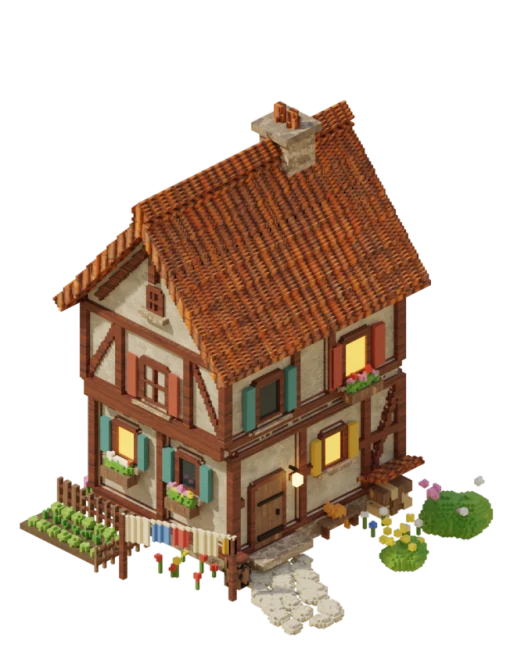
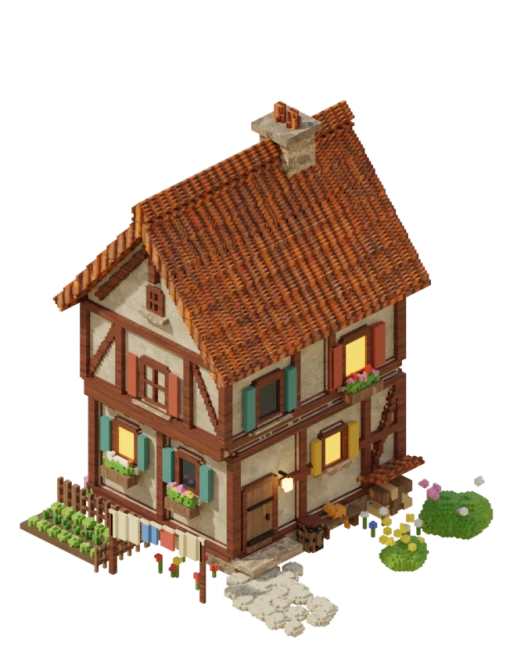
Small House: path runs square onto its entrance cell
The door moves south (y -0.28) and the cobbled path now bends once and runs
straight and perpendicular onto the middle of the entrance cell's outer
edge, so it continues in line into the road tile. The rain butt that would
have stood in it moves between door and bench; the washing line moves to
the side of the entrance (one piece fewer to fit).

Changed region(s): [[0.0309, 0.1497, 0.9594, 0.9581]]

diff --git a/lib/features/settlement/data/building_model.dart b/lib/features/settlement/data/building_model.dart
@@ -124,8 +124,8 @@ bool _modelFits(String id, int w, int h) {
 
 /// The footprint (grid w, h) each model was rendered for.
 const Map<String, (int, int)> kModelFootprint = {
-  'small_house': (2, 2),
   'hatchery': (4, 3),
+  'small_house': (2, 2),
 };
 
 const Map<String, BuildingEntrance> kBuildingEntrance = {
@@ -135,5 +135,5 @@ const Map<String, BuildingEntrance> kBuildingEntrance = {
 
 const Map<String, BuildingAnimSpec> kBuildingAnim = {
   'hatchery': BuildingAnimSpec(1.20837, true, [BuildingAnimLayer(AnimKind.sway, 0, 0, 41, 33, 0.40837, 0.58795, 0.04435, 0.02909, 0.42992, 0.60743, 0.1, 3.1, 2.78), BuildingAnimLayer(AnimKind.sway, 0, 35, 38, 34, 0.83682, 0.77147, 0.04017, 0.03047, 0.85562, 0.79175, 0.1, 3.1, 1.98), BuildingAnimLayer(AnimKind.sway, 0, 71, 35, 28, 0.41925, 0.80679, 0.03766, 0.02493, 0.43795, 0.823, 0.1, 3.1, 2.27), BuildingAnimLayer(AnimKind.sway, 0, 101, 34, 33, 0.68201, 0.8144, 0.03598, 0.02909, 0.70033, 0.83407, 0.1, 3.1, 1.65), BuildingAnimLayer(AnimKind.sway, 0, 136, 45, 38, 0.19833, 0.72922, 0.04854, 0.03324, 0.22376, 0.75776, 0.22, 1.5, 2), BuildingAnimLayer(AnimKind.sway, 0, 176, 23, 35, 0.20084, 0.75208, 0.02427, 0.03116, 0.21038, 0.78546, 0.22, 1.85, 2.04), BuildingAnimLayer(AnimKind.sway, 0, 213, 21, 41, 0.21172, 0.69529, 0.02259, 0.03601, 0.2251, 0.72951, 0.22, 2.2, 2.08), BuildingAnimLayer(AnimKind.sway, 0, 256, 44, 45, 0.06109, 0.71814, 0.04686, 0.04017, 0.08053, 0.74502, 0.12, 3.4, 4.2), BuildingAnimLayer(AnimKind.sway, 0, 303, 49, 47, 0.26276, 0.81856, 0.05272, 0.04155, 0.29739, 0.84362, 0.12, 3.4, 4.7), BuildingAnimLayer(AnimKind.sway, 0, 352, 25, 45, 0.61757, 0.90582, 0.02678, 0.04017, 0.616, 0.93335, 0.12, 3.4, 3.66), BuildingAnimLayer(AnimKind.sway, 0, 399, 48, 49, 0.09874, 0.74723, 0.05105, 0.04294, 0.12738, 0.77548, 0.12, 3.4, 3.48), BuildingAnimLayer(AnimKind.sway, 0, 450, 34, 50, 0.38828, 0.74723, 0.03598, 0.04432, 0.40582, 0.74853, 0.07, 3, 4.46), BuildingAnimLayer(AnimKind.bob, 0, 502, 68, 41, 0.29121, 0.7133, 0.0728, 0.03601, 0.31479, 0.74891, 0.008, 3.6, 0.62), BuildingAnimLayer(AnimKind.bob, 0, 545, 85, 67, 0.27364, 0.72022, 0.09038, 0.05956, 0.31479, 0.74891, 0.008, 4.9, 0.68), BuildingAnimLayer(AnimKind.sway, 0, 614, 87, 73, 0.83682, 0.78532, 0.09289, 0.0644, 0.87436, 0.83531, 0.035, 4.4, 1.67), BuildingAnimLayer(AnimKind.sway, 0, 689, 27, 35, 0.26946, 0.6205, 0.02845, 0.03116, 0.28802, 0.6647, 0.035, 4.4, 6.22), BuildingAnimLayer(AnimKind.sway, 0, 726, 80, 46, 0.33138, 0.67659, 0.08536, 0.04086, 0.39043, 0.70048, 0.1, 2.1, 4.87), BuildingAnimLayer(AnimKind.glow, 0, 774, 497, 340, 0.34142, 0.55263, 0.53138, 0.30055, 0.5, 0.5, 0.45, 6, 4.52), BuildingAnimLayer(AnimKind.flicker, 0, 1116, 74, 49, 0.45439, 0.80402, 0.0795, 0.04363, 0.5, 0.5, 0.7, 1, 4.49), BuildingAnimLayer(AnimKind.glow, 0, 1167, 50, 59, 0.2887, 0.74377, 0.05356, 0.05194, 0.5, 0.5, 0.6, 3.2, 1.2)]),
-  'small_house': BuildingAnimSpec(1.28679, true, [BuildingAnimLayer(AnimKind.sway, 0, 0, 37, 31, 0.1952, 0.66861, 0.07057, 0.04667, 0.22908, 0.69977, 0.1, 3.1, 2.76), BuildingAnimLayer(AnimKind.sway, 0, 33, 35, 34, 0.31381, 0.71412, 0.06757, 0.05018, 0.34919, 0.74644, 0.1, 3.1, 2.06), BuildingAnimLayer(AnimKind.sway, 0, 69, 39, 35, 0.65916, 0.53909, 0.07508, 0.05251, 0.69512, 0.57383, 0.1, 3.1, 6.11), BuildingAnimLayer(AnimKind.sway, 0, 106, 14, 22, 0.65165, 0.76079, 0.02703, 0.03267, 0.65939, 0.76586, 0.35, 1.9, 0.14), BuildingAnimLayer(AnimKind.sway, 0, 130, 70, 47, 0.28979, 0.81564, 0.13514, 0.07001, 0.36601, 0.85624, 0.12, 3.4, 3.68), BuildingAnimLayer(AnimKind.sway, 0, 179, 68, 38, 0.68619, 0.75146, 0.13063, 0.05601, 0.75998, 0.7965, 0.12, 3.4, 3.77), BuildingAnimLayer(AnimKind.sway, 0, 219, 15, 27, 0.15465, 0.70478, 0.02853, 0.04084, 0.19305, 0.7293, 0.12, 3.4, 3.8), BuildingAnimLayer(AnimKind.sway, 0, 248, 81, 70, 0.7973, 0.70595, 0.15465, 0.10385, 0.86568, 0.78904, 0.035, 4.4, 1.55), BuildingAnimLayer(AnimKind.sway, 0, 320, 56, 64, 0.72222, 0.76196, 0.10661, 0.09568, 0.76959, 0.84131, 0.035, 4.4, 0.63), BuildingAnimLayer(AnimKind.sway, 0, 386, 31, 34, 0.23423, 0.76896, 0.06006, 0.05134, 0.26023, 0.77419, 0.16, 2.4, 1.69), BuildingAnimLayer(AnimKind.sway, 0, 422, 25, 27, 0.28529, 0.77713, 0.04805, 0.04084, 0.31054, 0.78219, 0.16, 2.4, 0.5), BuildingAnimLayer(AnimKind.sway, 0, 451, 23, 27, 0.32583, 0.78296, 0.04354, 0.03967, 0.34828, 0.78819, 0.16, 2.4, 2.42), BuildingAnimLayer(AnimKind.sway, 0, 480, 31, 31, 0.36486, 0.7888, 0.06006, 0.04667, 0.39544, 0.79569, 0.16, 2.4, 1.14), BuildingAnimLayer(AnimKind.sway, 0, 513, 14, 23, 0.42042, 0.79813, 0.02703, 0.03384, 0.43946, 0.80268, 0.16, 2.4, 2.46), BuildingAnimLayer(AnimKind.glow, 0, 538, 252, 135, 0.22222, 0.49708, 0.48348, 0.2007, 0.5, 0.5, 0.45, 6, 4.52), BuildingAnimLayer(AnimKind.flicker, 0, 675, 16, 20, 0.55556, 0.70128, 0.03153, 0.03034, 0.5, 0.5, 0.7, 1, 4.49)]),
+  'small_house': BuildingAnimSpec(1.29198, true, [BuildingAnimLayer(AnimKind.sway, 0, 0, 37, 31, 0.19667, 0.67096, 0.0711, 0.04567, 0.2311, 0.7019, 0.1, 3.1, 2.76), BuildingAnimLayer(AnimKind.sway, 0, 33, 35, 33, 0.31619, 0.71663, 0.06808, 0.04918, 0.35209, 0.74872, 0.1, 3.1, 2.06), BuildingAnimLayer(AnimKind.sway, 0, 68, 39, 36, 0.66415, 0.53981, 0.07564, 0.05386, 0.70053, 0.57555, 0.1, 3.1, 6.11), BuildingAnimLayer(AnimKind.sway, 0, 106, 14, 22, 0.65658, 0.76347, 0.02723, 0.03279, 0.66454, 0.7682, 0.35, 1.9, 0.14), BuildingAnimLayer(AnimKind.sway, 0, 130, 70, 44, 0.29198, 0.82319, 0.13616, 0.06557, 0.36903, 0.85887, 0.12, 3.4, 3.68), BuildingAnimLayer(AnimKind.sway, 0, 176, 68, 38, 0.69138, 0.7541, 0.13162, 0.05621, 0.76586, 0.79894, 0.12, 3.4, 3.77), BuildingAnimLayer(AnimKind.sway, 0, 216, 15, 27, 0.15582, 0.70726, 0.02874, 0.03981, 0.19481, 0.73152, 0.12, 3.4, 3.8), BuildingAnimLayer(AnimKind.sway, 0, 245, 81, 70, 0.80333, 0.70726, 0.15582, 0.10539, 0.87233, 0.79145, 0.035, 4.4, 1.55), BuildingAnimLayer(AnimKind.sway, 0, 317, 56, 64, 0.72769, 0.76464, 0.10741, 0.09602, 0.77554, 0.84389, 0.035, 4.4, 0.63), BuildingAnimLayer(AnimKind.sway, 0, 383, 34, 37, 0.2118, 0.76581, 0.06505, 0.05504, 0.24448, 0.77314, 0.16, 2.4, 1.69), BuildingAnimLayer(AnimKind.sway, 0, 422, 23, 29, 0.26778, 0.77752, 0.04539, 0.04333, 0.29052, 0.78461, 0.16, 2.4, 0.5), BuildingAnimLayer(AnimKind.sway, 0, 453, 21, 29, 0.30408, 0.78689, 0.04085, 0.04333, 0.32505, 0.79321, 0.16, 2.4, 2.42), BuildingAnimLayer(AnimKind.sway, 0, 484, 27, 32, 0.34039, 0.79625, 0.05144, 0.04801, 0.36821, 0.80396, 0.16, 2.4, 1.14), BuildingAnimLayer(AnimKind.glow, 0, 518, 253, 135, 0.2239, 0.49883, 0.48865, 0.20141, 0.5, 0.5, 0.45, 6, 4.52), BuildingAnimLayer(AnimKind.flicker, 0, 655, 17, 20, 0.53858, 0.71077, 0.03328, 0.03044, 0.5, 0.5, 0.7, 1, 4.49)]),
 };

diff --git a/lib/features/settlement/data/building_art_box.dart b/lib/features/settlement/data/building_art_box.dart
@@ -32,7 +32,7 @@ const Map<String, (double, double, double)> kBundledArtBox = {
   'refinery_e2': (1.00000, 0.50000, 0.00000),
   'scout_post': (1.00000, 0.50000, 0.00000),
   // Fachwerk rebuild 2026-11-03 (tool/blender/buildings/small_house.py).
-  'small_house': (0.96086, 0.48613, 0.03364),
+  'small_house': (0.96854, 0.49001, 0.02991),
   'small_quarry': (1.00000, 0.50000, 0.00000),
   'small_wood_camp': (1.00000, 0.50000, 0.00000),
   'storehouse': (1.00000, 0.50000, 0.00000),

diff --git a/lib/features/settlement/data/building_definitions.dart b/lib/features/settlement/data/building_definitions.dart
@@ -2451,7 +2451,7 @@ const Map<String, (double, double)> kChimneyAnchor = {
   'church': (0.127, 0.726),
   'refinery_e2': (0.231, 0.732),
   'hatchery': (0.548, 0.371),
-  'small_house': (0.551, 0.137),
+  'small_house': (0.555, 0.134),
 };
 
 const Map<String, int> kBuildingUnlockBattle = {

diff --git a/tool/blender/buildings/small_house.py b/tool/blender/buildings/small_house.py
@@ -42,7 +42,7 @@ Z_EAVE = G + 1.42               # wall top = eave
 CHX, CHY, CHZ0, CHH = -0.25, 0.52, G + 1.67, 0.62
 CHIMNEY = (CHX, CHY, CHZ0 + CHH + 0.13)
 # the door on the east wall, and the entrance cell its path leads to
-YD = -0.20
+YD = -0.28
 ENTRANCE = ('e', 0)
 
 
@@ -111,8 +111,7 @@ def washing_line(M, a, b, h=0.40):
     d = (top_b - top_a)
     rot = math.atan2(d.y, d.x)
     items = [(0.17, 0.15, 'linen'), (0.09, 0.11, 'shirt_b'),
-             (0.09, 0.11, 'shirt_r'), (0.15, 0.13, 'awning'),
-             (0.07, 0.09, 'mustard')]
+             (0.09, 0.11, 'shirt_r'), (0.15, 0.13, 'awning')]
     total = sum(w for w, _, _ in items) + 0.03 * (len(items) - 1)
     t = (1 - total / d.length) / 2
     for w, hh, key in items:
@@ -254,15 +253,17 @@ def build():
     # The path runs from the door to the middle of the entrance cell's outer
     # edge, where the road has to be.
     ex, ey = entrance_point(W, H, *ENTRANCE)
-    cobble_path(M, [(X1 + 0.10, YD), (0.70, ey + 0.08), (ex, ey)], seed=4)
+    # out of the door, a bend, then STRAIGHT and square onto the middle of the
+    # entrance cell's edge, so it runs on into the road tile in line
+    cobble_path(M, [(X1 + 0.10, YD), (0.56, ey), (ex - 0.02, ey)], seed=4)
     bench(M, X1 + 0.07, 0.18, 0.46)
     cat(M, X1 + 0.07, 0.30, G + m(0.45) + 0.01, rot=math.radians(-110))
     woodpile(M, X1 + 0.09, 0.58, 0.84)
-    barrel(M, X1 + 0.09, -0.52, r=0.07, h=0.17)          # rain butt
+    barrel(M, X1 + 0.09, 0.07, r=0.07, h=0.17)           # rain butt
 
     veg_bed(M, -0.92, -0.32, -0.94, -0.64)
     fence(M, [(-0.97, -0.58), (-0.27, -0.58), (-0.27, -0.98)])
-    washing_line(M, (-0.12, -0.92), (0.50, -0.66))
+    washing_line(M, (-0.20, -0.93), (0.40, -0.80))   # clear of the entrance path
 
     bush(M, 0.80, 0.78, 0.17, 1, ['fl_white', 'fl_pink'])
     bush(M, -0.92, 0.92, 0.14, 2)
